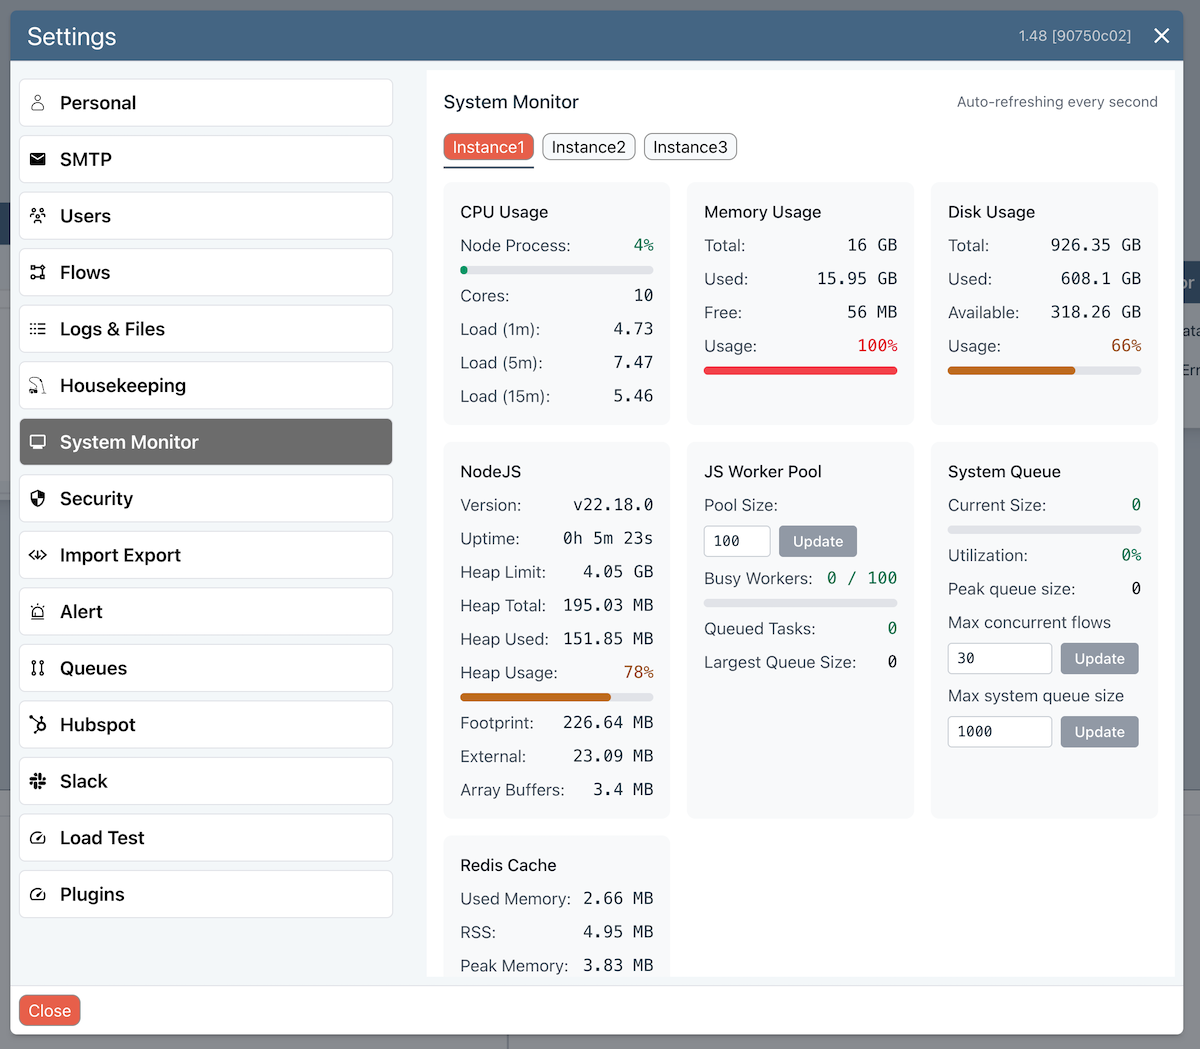
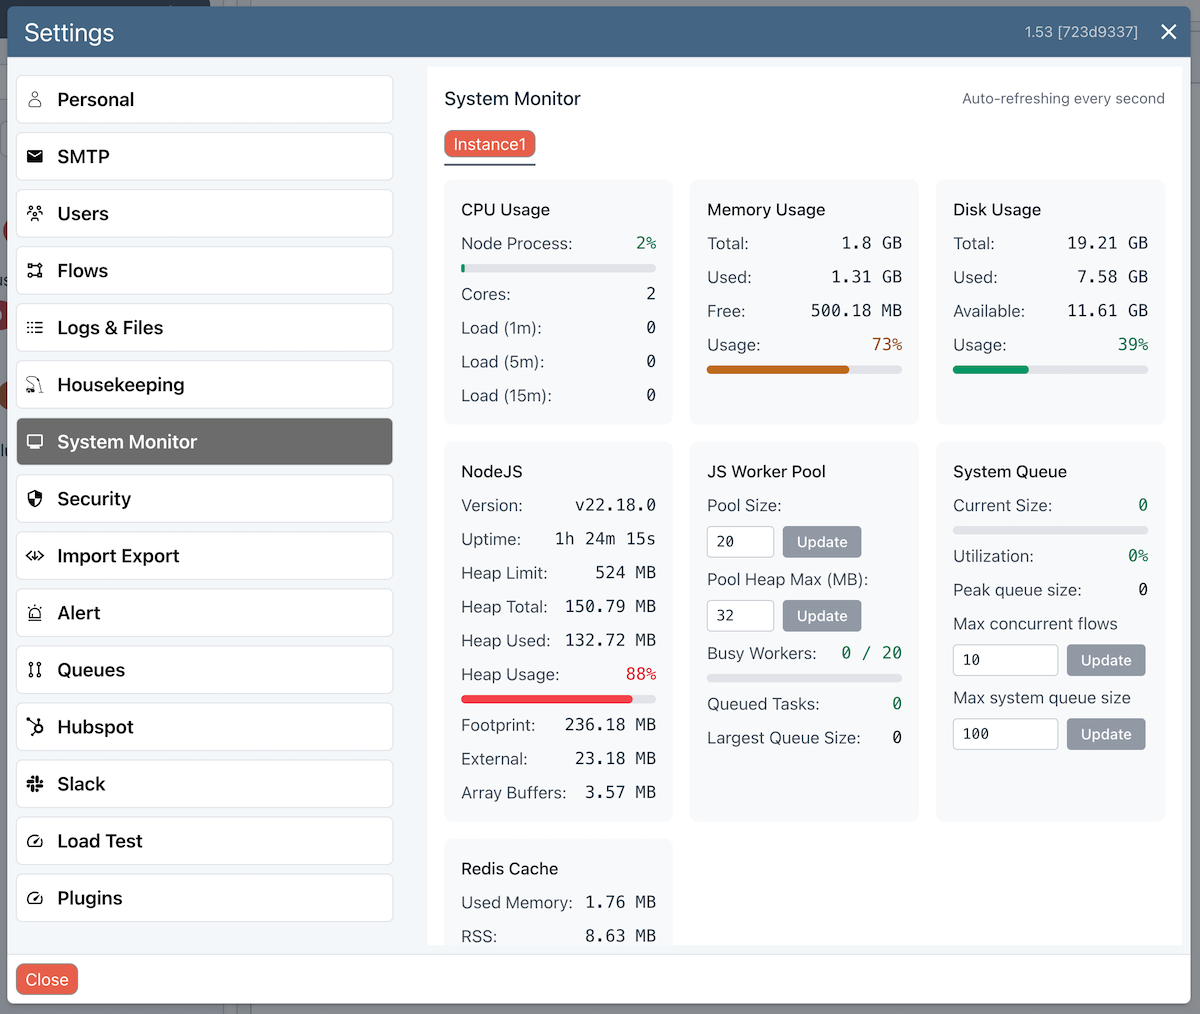
js heap + HS currency

diff --git a/sidebars.js b/sidebars.js
@@ -180,6 +180,7 @@ const sidebars = {
                 'user-guide/block-types/hubspot/hs-create-associations',
                 'user-guide/block-types/hubspot/hs-get-all-owners',
                 'user-guide/block-types/hubspot/hs-owner-translate',
+                'user-guide/block-types/hubspot/hs-currency',
                 'user-guide/block-types/hubspot/hs-merge',
                 'user-guide/block-types/hubspot/hs-timeline-write',
                 'user-guide/block-types/hubspot/hs-search',

diff --git a/docs/user-guide/Performance-Tuning.md b/docs/user-guide/Performance-Tuning.md
@@ -7,9 +7,23 @@ You can adjust the system performance by adjusting the following values in the [
 - Maximum concurrent flows
 - Maximum system queue size
 - Javascript Worker Pool size
-- You can also run a [multi-server configuration](/user-guide/cluster/overview.md) 
+- Javascript maximum heap size
+
+There are limits to how much performance you can squeeze out of a single server, at which point you should consider a [multi-server configuration](/user-guide/cluster/overview.md).
 
 <img src="/img/flows/blocks/core/javscript/js-system-monitor.png" alt="System monitor" width="1200" />
+
+## Tuning strategy
+
+The main consideration when tuning is the available memory. It is worth considering the following when adjusting key values.
+
+- Performance depends on the nature of your flows and available memory. You switch to a [Cluster](/user-guide/cluster/overview.md) when you need more performance and high availability.
+- The [Load Tester](/user-guide/Global-Settings.md#load-test) (or running your own external load testing) is a useful way of getting a handle on performance.
+- You should be aware of the [Queues screen](/user-guide/Queuing.md#monitoring) and the [Flow Execution Monitor](/user-guide/flow-execution-monitor.md), both of which give you useful insights into current flow load and peaks.
+- The NodeJS process is where the core of the application runs. It does not need lots of memory but it should not be getting close to the Heap Limit (which can be adjusted in your `.env` or `docker-compose.yaml` files). 
+- Max concurrent flows will impact the NodeJS heap size but the actual amount depends very much on the nature of your flows.
+- The Javascript Worker Pool settings have an immediate impact on memory. If you make only occasional use of the Javascript block or they are very short running, you can afford to have a lower value. You can inspect the Queued Tasks and Largest Queue Size values to see whether you are exceeding the pool size.
+- When flows are queued (System Queue) then performance will degrade somewhat. If they overflow ([Queues screen](/user-guide/Queuing.md#monitoring) or [Load Tester](/user-guide/Global-Settings.md#load-test)) then performance will slow further as they persist to the database to avoid memory overload.
 
 ## Maximum concurrent flows
 The nuber of flows that can execute simultaneously on the server. The default is 10, but you can increase this significantly higher if required. 
@@ -27,7 +41,13 @@ If you are passing in large payloads, then the impact on memory will be related 
 Once the system queue is full, flows will be persisted to the database. The throughput will drop somewhat once the overflow is being used. If the overflow size gets too large, it is a clear sign that you need to adjust **Maximum concurrent flows**, **Maximum system queue size** or add another server to a [Ziggy cluster](docs/user-guide/cluster/overview.md).
 
 ## Javascript workers
-Javascript Block code is executed in isolated worker processes. Ziggy manages a pool of workers. By default the pool size is 20 but you can increase this in the [System Monitor](user-guide/Global-Settings.md#system-monitor).
+Javascript Block code is executed in isolated worker processes. Ziggy manages a pool of workers, which are pre-allocated and therefore have an immediate impact on total system memory consumption. 
+
+The total memory required is `Pool Size * Heap Size`. 
+
+The pool size is 20 by default, but you can increase this in the [System Monitor](user-guide/Global-Settings.md#system-monitor). 
+
+When you change either value, the server will make immediate adjustments. If there is not enough memory to accommodate the values then it will allocate as many workers as it can without overloading memory.
 
 ## Monitoring
 There are two ways to monitor the load and the flow throughput.

diff --git a/docs/user-guide/block-types/hubspot/hs-currency.md b/docs/user-guide/block-types/hubspot/hs-currency.md
@@ -1,0 +1,38 @@
+---
+title: HubSpot Currency
+---
+
+This block lets you both get and set currencies.
+
+## Get
+This retrieves all current HubSpot currencies and the current exchange rates. The data is placed on the output edge.
+
+<img src="/img/flows/blocks/hubspot/hs-currency-get.png" alt="Markdown" width="300" />
+
+You will see data like this on the edge.
+
+<img src="/img/flows/blocks/hubspot/hs-currency-get-data.png" alt="Markdown" width="300" />
+
+## Set
+This sets exchange rates for your defined HubSpot currencies.
+
+<img src="/img/flows/blocks/hubspot/hs-currency-set.png" alt="Markdown" width="300" />
+
+### Data Key
+If the currency data on the input edge contains the data array with your currency data then leave this empty. If not, point to the key in the input data.
+
+### Currency code key
+This is a required field. You should specify which key in each array element contains the currency code.
+
+### Exchange rate key
+This is a required field. You should specify which key in each array element contains the exchange rate.
+
+### Example
+The flow below shows 
+
+- a REST block, which fetches data from a currency server. 
+- The Javascript block gets the data into an array (see below).
+- The HubSpot Currency block then updates HubSpot.
+
+<img src="/img/flows/blocks/hubspot/hs-currency-set-input.png" alt="Markdown" width="1000" />
+

diff --git a/docs/user-guide/Global-Settings.md b/docs/user-guide/Global-Settings.md
@@ -98,7 +98,8 @@ relative inactivity.
 
 This lets you monitor all important aspects of your Ziggy server.
 
-This screen lets you temporarily adjust the Javascript Worker Pool size until your server restarts.
+This screen lets you temporarily adjust the Javascript Worker Pool and heap sizes until your server restarts.
+
 Refer to [Performance Tuning](user-guide/Performance-Tuning.md) for details.
 
 ![System Monitor](/img/flows/blocks/core/javscript/js-system-monitor.png)
